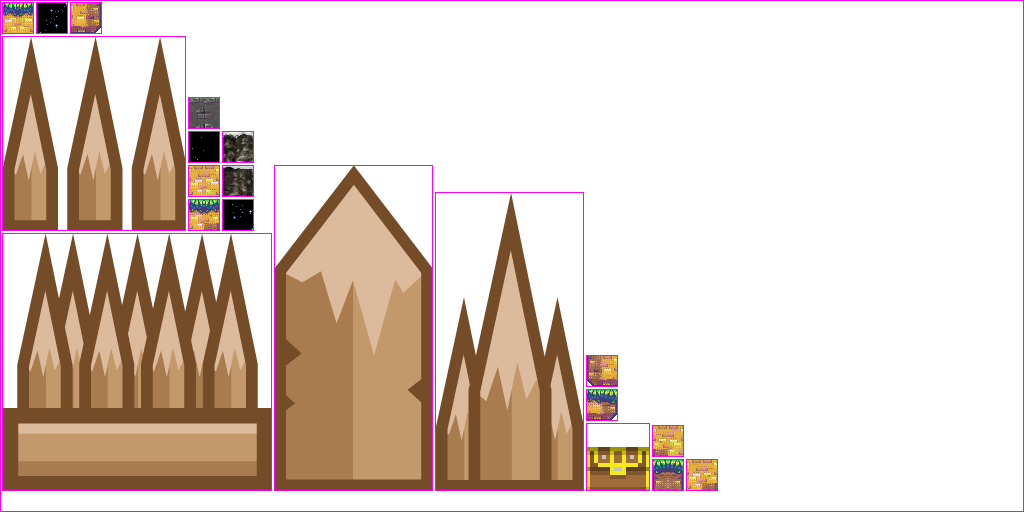
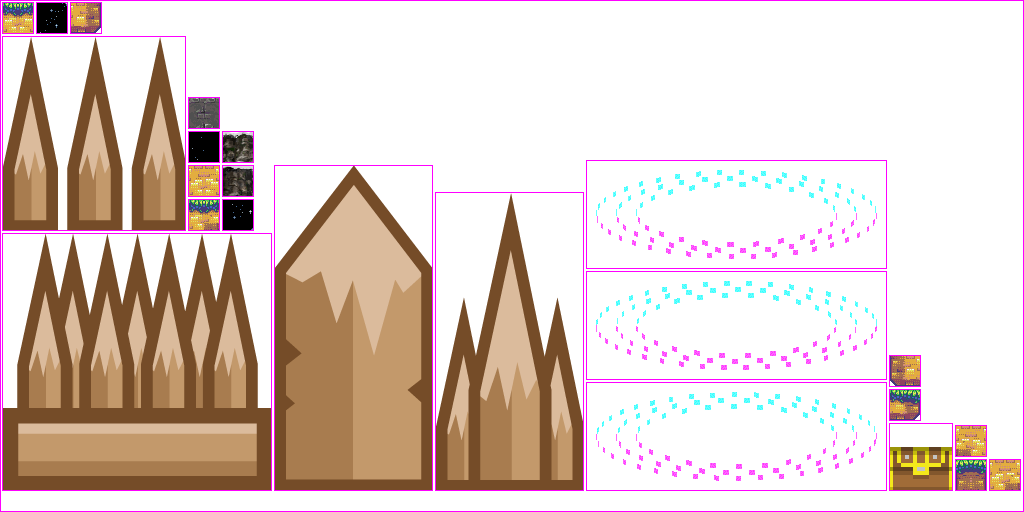
something now renders after end of text is reached

diff --git a/core/src/com/douge/gdx/game/Message.java b/core/src/com/douge/gdx/game/Message.java
@@ -34,6 +34,7 @@ public class Message
 	boolean textIsRendered = false;
 	public boolean shouldBeRendered = false;
 	public Message nextNode;
+	public float stateTime = 0;
 
 	public boolean isRendering = false;
 
@@ -42,13 +43,14 @@ public class Message
 		this.text = text;
 		text += " ";
 		this.conditions = conditions;
-		box = new Rectangle(0, Constants.VIEWPORT_GUI_HEIGHT - 70, Constants.VIEWPORT_GUI_WIDTH, 0);
+		//drawn from top left to bottom right
+		box = new Rectangle(0, Constants.VIEWPORT_GUI_HEIGHT - 50, Constants.VIEWPORT_GUI_WIDTH, 0);
 		maxHeight = Constants.VIEWPORT_GUI_HEIGHT - box.y;
 		icon = new Sprite(reg);
 		icon.setRegion(reg, 0, 0, reg.getRegionWidth(), reg.getRegionWidth() / 2);
 		iconX = -50f;
 		icon.setX(iconX);
-		icon.setY(box.y - 20f);
+		icon.setY(box.y - 40f);
 		icon.flip(false, true);
 	}
 
@@ -64,6 +66,7 @@ public class Message
 		{
 			shouldBeRendered = true;
 		}
+		stateTime += deltaTime;
 	}
 
 	public void renderText(SpriteBatch batch) 
@@ -79,11 +82,13 @@ public class Message
 				{
 					textIndex = text.length();
 					textIsRendered = true;
+					renderButton(batch);
 				}
 				for (int i = 0; i <= textIndex; i++) 
 				{
 					BitmapFont fontGameOver = Assets.instance.fonts.defaultBig;
 					fontGameOver.setColor(Color.BLACK);
+					fontGameOver.getColor().set(Color.WHITE);
 					fontGameOver.getData().setScale(1f, 1f);
 					fontGameOver.draw(batch, text.subSequence(0, i), box.x + 100, box.y + 25, 0, Align.left, true);
 				}
@@ -108,16 +113,30 @@ public class Message
 
 	}
 
+	private void renderButton(SpriteBatch batch) 
+	{
+		System.out.println("im called" + stateTime);
+		TextureRegion reg = Assets.instance.tiles.buttonPress.getKeyFrame(stateTime, true);
+		batch.draw(reg.getTexture(), 
+				box.x + 525, box.y + 11, 
+				0, 0, 
+				100, 40, 
+				1, 1, 
+				0,
+				reg.getRegionX(), reg.getRegionY(), 
+				reg.getRegionWidth(), reg.getRegionHeight(), 
+				false, false);		
+	}
+
 	private void renderIcon(SpriteBatch batch) {
-		batch.draw(icon, iconX, icon.getY(), 0, 0, icon.getWidth(),
-				icon.getHeight(), 4, 2, 0f);
+		batch.draw(icon, iconX, icon.getY(), 0, 0, icon.getWidth(), icon.getHeight(), 4, 2, 0f);
 	}
 
 	private void renderBox(SpriteBatch batch, float currentHeight) {
 		batch.end();
 		shapeRenderer.setProjectionMatrix(batch.getProjectionMatrix());
 		shapeRenderer.begin(ShapeType.Filled);
-		shapeRenderer.setColor(Color.BLUE);
+		shapeRenderer.setColor(Color.BLACK);
 		box.height = currentHeight;
 		shapeRenderer.rect(box.x, box.y, box.width, box.height);
 		shapeRenderer.end();

diff --git a/core/src/com/douge/gdx/game/assets/AssetTiles.java b/core/src/com/douge/gdx/game/assets/AssetTiles.java
@@ -1,12 +1,16 @@
 package com.douge.gdx.game.assets;
 
+import com.badlogic.gdx.graphics.g2d.Animation;
 import com.badlogic.gdx.graphics.g2d.TextureAtlas;
 import com.badlogic.gdx.graphics.g2d.TextureAtlas.AtlasRegion;
 import com.badlogic.gdx.graphics.g2d.TextureRegion;
+import com.badlogic.gdx.utils.Array;
 
 public class AssetTiles {
 
 	public final AtlasRegion chest;
+	public final Animation buttonPress;
+	
 	//public final AtlasRegion spikes;
 	public final AtlasRegion tileRockTop;
 	public final AtlasRegion tileRockBottom;
@@ -29,6 +33,13 @@ public class AssetTiles {
 		
 		snow1 = atlas.findRegion("snow1");
 		snow2 = atlas.findRegion("snow2");
+		
+		Array<AtlasRegion> regions = new Array<AtlasRegion>();
+		for(int i = 0; i <= 2; i++)
+		{
+			regions.add(atlas.findRegion("press"+i));
+		}
+		buttonPress = new Animation(1.0f / 10.0f, regions, Animation.PlayMode.LOOP);
 	}
 
 }

diff --git a/core/src/com/douge/gdx/game/LevelLoader.java b/core/src/com/douge/gdx/game/LevelLoader.java
@@ -70,7 +70,7 @@ public class LevelLoader
 	    
 		Level level1 = new Level(BLOCK_TYPE.STAR_BACK.getColor(), "../core/assets/levels/level01.png", messages);
 		messages.enqueue(new Message("I haven't been here in ages...", new Vector2(0, 0), Assets.instance.survivor.survivor));
-		messages.enqueue(new Message("Hmm. The goblins have grown much larger than I remembered", new Vector2(5, 5), Assets.instance.survivor.survivor));
+		messages.enqueue(new Message("Hmm. There are much more bats than I remember...", new Vector2(2, 0), Assets.instance.survivor.survivor));
 		messages.enqueue(new NullMessage());
 		levels.add(level1);
 		

diff --git a/core/src/com/douge/gdx/game/WorldController.java b/core/src/com/douge/gdx/game/WorldController.java
@@ -338,7 +338,7 @@ public class WorldController extends InputAdapter
 			boolean jumpKeyPressed = Gdx.input.justTouched() || Gdx.input.isKeyPressed(Keys.SPACE);
 			if(message.textIsRendered && message.shouldBeRendered)
 			{
-				if(!message.playerSkipped && jumpKeyPressed)
+				if(!message.playerSkipped && (jumpKeyPressed || dashKeyPressed))
 				{
 					message.playerSkipped = true;
 					levelLoader.currentLevel.messages.dequeue();
